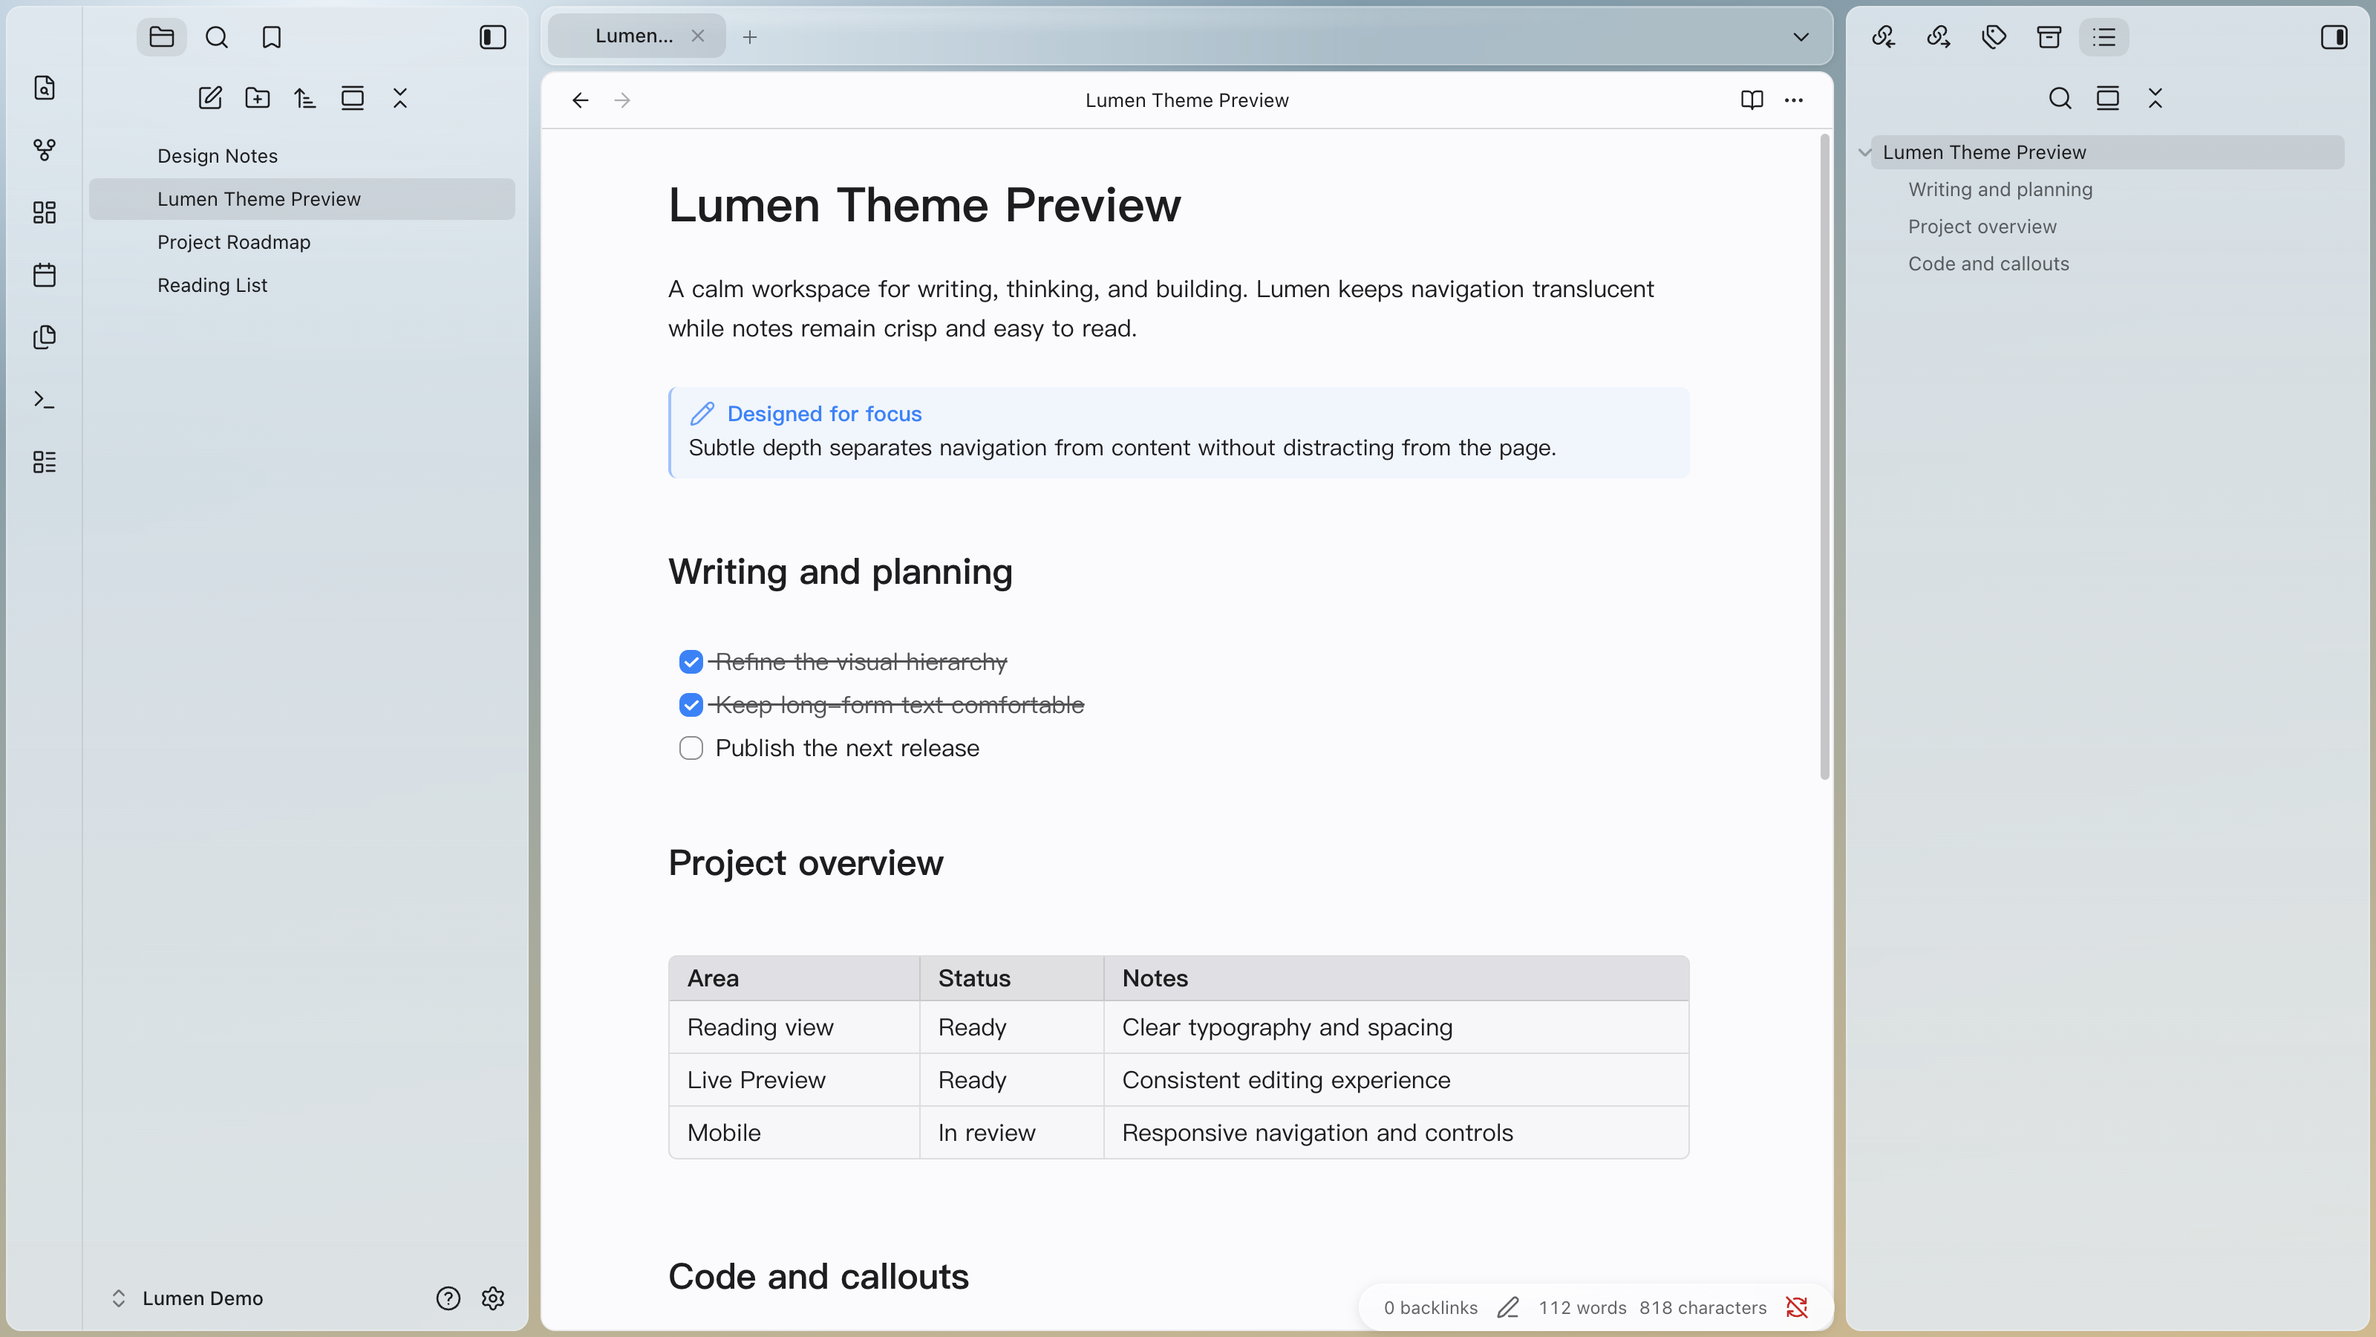
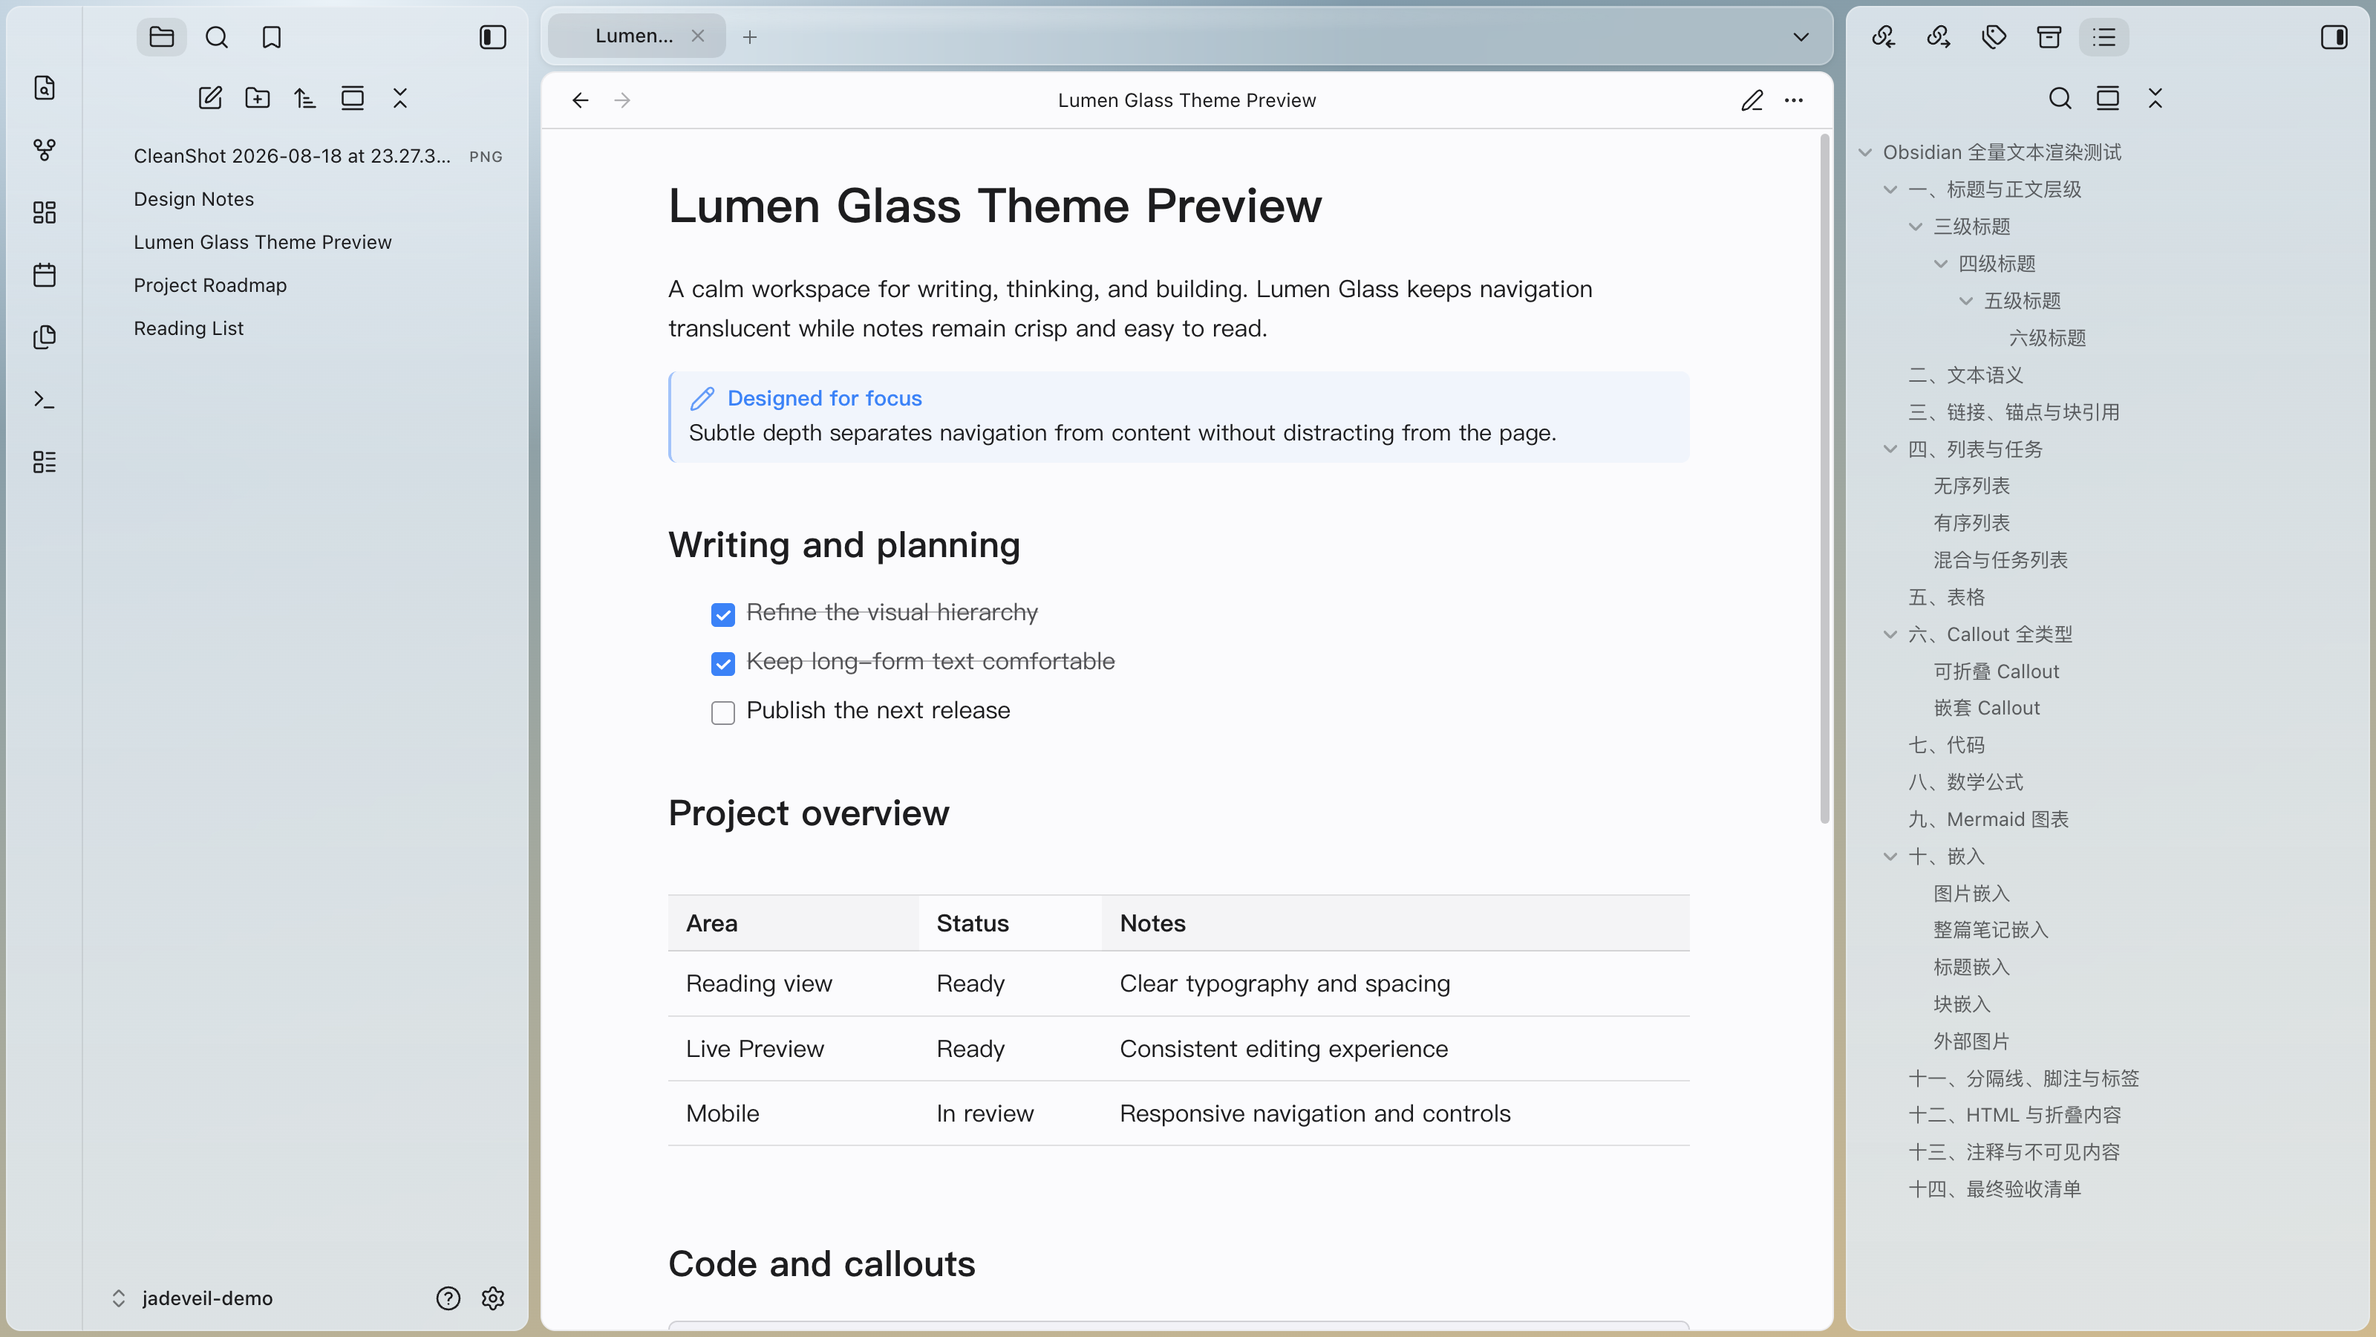
Prepare Lumen Glass for its 1.0.1 release
Align the public identity and release metadata, remove the remote wallpaper path, and strengthen validation so the next immutable release is ready for Community Themes submission.

diff --git a/preview.html b/preview.html
@@ -3,7 +3,7 @@
 <head>
   <meta charset="UTF-8" />
   <meta name="viewport" content="width=device-width, initial-scale=1" />
-  <title>琉光 Lumen · 设计稿</title>
+  <title>Lumen Glass · 设计稿</title>
   <link rel="icon" href="assets/mark.svg" type="image/svg+xml" />
   <style>
     :root {
@@ -317,9 +317,9 @@
 <body>
   <header class="top">
     <div class="brand">
-      <img src="assets/icon.jpg" width="36" height="36" alt="琉光标志" />
+      <img src="assets/icon.jpg" width="36" height="36" alt="Lumen Glass mark" />
       <div>
-        <b>琉光</b>
+        <b>Lumen Glass</b>
         <small>LUMEN</small>
       </div>
     </div>
@@ -347,7 +347,7 @@
       <nav class="side glass">
         <div class="cap">库</div>
         <div class="row"><svg viewBox="0 0 24 24" fill="none" stroke="currentColor" stroke-width="1.75"><path d="M9 8l3 3-3 3"/></svg>日记</div>
-        <div class="row on"><svg viewBox="0 0 24 24" fill="none" stroke="currentColor" stroke-width="1.75"><path d="M9 8l3 3-3 3"/></svg>琉光</div>
+        <div class="row on"><svg viewBox="0 0 24 24" fill="none" stroke="currentColor" stroke-width="1.75"><path d="M9 8l3 3-3 3"/></svg>Lumen Glass</div>
         <div class="row sub">品牌</div>
         <div class="row sub">材质</div>
         <div class="row"><svg viewBox="0 0 24 24" fill="none" stroke="currentColor" stroke-width="1.75"><path d="M9 8l3 3-3 3"/></svg>项目</div>
@@ -355,13 +355,13 @@
       </nav>
       <div class="main">
         <div class="tabs glass">
-          <span class="tab on">琉光</span>
+          <span class="tab on">Lumen Glass</span>
           <span class="tab">日记 <i class="dot" title="未保存"></i></span>
           <span class="tab">阅读清单</span>
           <span class="grow"></span>
         </div>
         <article class="paper">
-          <div class="vhead">琉光.md <span>库 / 琉光</span></div>
+          <div class="vhead">Lumen Glass.md <span>Vault / Lumen Glass</span></div>
           <div class="body">
             <h3>手触琉璃，心落纸上</h3>
             <p>玻璃只负责操作，纸面只负责书写。换墙纸，玻璃会变；换墙纸，<mark>字还在</mark>。</p>
@@ -376,7 +376,7 @@
 --lg-paper: #F4F4F6;</pre>
           </div>
         </article>
-        <div class="status glass">琉光 Lumen · 阅读 · 128 词</div>
+        <div class="status glass">Lumen Glass · 阅读 · 128 词</div>
       </div>
     </div>
   </section>
@@ -394,34 +394,34 @@
       <nav class="side glass">
         <div class="cap">库</div>
         <div class="row"><svg viewBox="0 0 24 24" fill="none" stroke="currentColor" stroke-width="1.75"><path d="M9 8l3 3-3 3"/></svg>日记</div>
-        <div class="row on"><svg viewBox="0 0 24 24" fill="none" stroke="currentColor" stroke-width="1.75"><path d="M9 8l3 3-3 3"/></svg>琉光</div>
+        <div class="row on"><svg viewBox="0 0 24 24" fill="none" stroke="currentColor" stroke-width="1.75"><path d="M9 8l3 3-3 3"/></svg>Lumen Glass</div>
         <div class="row sub">品牌</div>
         <div class="row sub">材质</div>
         <div class="row"><svg viewBox="0 0 24 24" fill="none" stroke="currentColor" stroke-width="1.75"><path d="M9 8l3 3-3 3"/></svg>项目</div>
       </nav>
       <div class="main">
         <div class="tabs glass">
-          <span class="tab on">琉光</span>
+          <span class="tab on">Lumen Glass</span>
           <span class="tab">日记</span>
           <span class="tab">阅读清单</span>
         </div>
         <article class="paper">
-          <div class="vhead">琉光.md <span>库 / 琉光</span></div>
+          <div class="vhead">Lumen Glass.md <span>Vault / Lumen Glass</span></div>
           <div class="body">
             <h3>玻璃浮着，纸留下。</h3>
             <p>The glass floats. The paper stays.</p>
             <p class="muted">紫蓝丝绸只给玻璃染色。纸是墨紫实底，不是第三块玻璃。</p>
           </div>
         </article>
-        <div class="status glass">琉光 Lumen · 128 words</div>
+        <div class="status glass">Lumen Glass · 128 words</div>
       </div>
       <div class="dim" aria-hidden="true"></div>
       <div class="palette glass" role="dialog" aria-label="命令面板">
         <div class="search">
           <svg viewBox="0 0 24 24" fill="none" stroke="currentColor" stroke-width="1.75"><circle cx="11" cy="11" r="6"/><path d="M20 20l-3.2-3.2"/></svg>
-          <b>打开琉光</b>
+          <b>Open Lumen Glass</b>
         </div>
-        <div class="hit on">打开 琉光.md <kbd>↵</kbd></div>
+        <div class="hit on">Open Lumen Glass.md <kbd>↵</kbd></div>
         <div class="hit">新建笔记 <kbd>⌘N</kbd></div>
         <div class="hit">切换外观</div>
       </div>
@@ -438,11 +438,11 @@
       </aside>
       <nav class="side glass" aria-hidden="true">
         <div class="cap">库</div>
-        <div class="row on">琉光</div>
+        <div class="row on">Lumen Glass</div>
         <div class="row">项目</div>
       </nav>
       <div class="main">
-        <div class="tabs glass"><span class="tab on">琉光</span></div>
+        <div class="tabs glass"><span class="tab on">Lumen Glass</span></div>
         <article class="paper"><div class="body"><h3>纸面仍在</h3><p class="muted">设置打开时，笔记被压在后面。</p></div></article>
       </div>
       <div class="dim"></div>
@@ -454,7 +454,7 @@
           <div class="row">快捷键</div>
         </div>
         <div class="set-paper">
-          <h3>琉光 Lumen</h3>
+          <h3>Lumen Glass</h3>
           <div class="field">玻璃重量<span>标准 Regular</span></div>
           <div class="field">降低透明度<i class="toggle"><i></i></i></div>
           <div class="field">增强对比<i class="toggle" style="background:rgba(120,120,128,.32)"><i style="right:auto;left:3px"></i></i></div>
@@ -470,11 +470,11 @@
     <div class="phone-wrap">
       <div class="phone frame" data-screen="mobile" style="display:flex;grid-template-columns:none;height:720px">
         <div class="tabs glass">
-          <span class="tab on">琉光</span>
+          <span class="tab on">Lumen Glass</span>
           <span class="tab">日记</span>
         </div>
         <article class="paper">
-          <div class="vhead">琉光.md</div>
+          <div class="vhead">Lumen Glass.md</div>
           <div class="body">
             <h3>手触琉璃</h3>
             <p>小屏默认更实的填充。可读优先于通透。</p>
@@ -503,6 +503,6 @@
     </div>
   </section>
 
-  <footer>琉光 Lumen · 设计稿 v2 · 过关后再写 theme.css</footer>
+  <footer>Lumen Glass · 设计稿 v2 · 过关后再写 theme.css</footer>
 </body>
 </html>

diff --git a/theme.css b/theme.css
@@ -1,15 +1,15 @@
 /* ============================================================================
-   Lumen — Obsidian theme
+   Lumen Glass — Obsidian theme
    ============================================================================ */
 
 /* @settings
 
-name: Lumen
+name: Lumen Glass
 id: lumen
 settings:
     -
         id: lumen-about
-        title: Lumen
+        title: Lumen Glass
         description: A translucent interface with a clear, focused reading surface.
         type: heading
         level: 1
@@ -19,16 +19,9 @@ settings:
         type: heading
         level: 2
     -
-        id: lumen-wallpaper-image
-        title: Custom wallpaper
-        description: Enter url("…") or none. The wallpaper is not applied to note backgrounds.
-        type: variable-text
-        default: none
-        quotes: false
-    -
         id: lumen-ambient-bleed
         title: Ambient color bleed
-        description: Applies wallpaper colors to translucent surfaces without affecting notes.
+        description: Applies the built-in backdrop colors to translucent surfaces without affecting notes.
         type: variable-number-slider
         default: 36
         min: 0
@@ -125,7 +118,6 @@ settings:
   --lumen-accent: #0a84ff;
   --lumen-ambient-bleed: 30%;
   --lumen-file-line-width: 46rem;
-  --lumen-wallpaper-image: none;
 
   --lg-accent: var(--lumen-accent);
   --lg-accent-hover: color-mix(in srgb, var(--lg-accent) 78%, #000);
@@ -557,7 +549,7 @@ body *::-webkit-scrollbar-thumb:hover {
 
 .app-container {
   background-color: var(--lg-wallpaper-fallback);
-  background-image: var(--lumen-wallpaper-image), var(--lg-wallpaper);
+  background-image: var(--lg-wallpaper);
   background-size: cover;
   background-position: center;
 }
@@ -1228,7 +1220,7 @@ body.is-mobile .status-bar {
 
 .markdown-rendered mark,
 .cm-highlight {
-  background: var(--text-highlight-bg) !important;
+  background: var(--text-highlight-bg);
   color: var(--text-normal);
   padding-inline: 0.08em;
   border-radius: var(--lg-radius-xs);
@@ -1519,7 +1511,7 @@ body[class] .workspace-leaf-content .markdown-rendered pre > code {
 }
 
 .markdown-rendered mjx-container[display="true"] {
-  margin-block: var(--lg-space-6) !important;
+  margin-block: var(--lg-space-6);
   padding-block: var(--lg-space-1);
   overflow-x: auto;
   overflow-y: hidden;

diff --git a/README.md b/README.md
@@ -1,8 +1,8 @@
-# Lumen
+# Lumen Glass
 
 A light and dark theme for [Obsidian](https://obsidian.md/) with translucent navigation, restrained interface styling, and a clear reading surface.
 
-![Lumen theme preview](assets/screenshot.png)
+![Lumen Glass theme preview](assets/screenshot.png)
 
 ## Features
 
@@ -19,14 +19,17 @@ A light and dark theme for [Obsidian](https://obsidian.md/) with translucent nav
 - Obsidian 1.13.0 or later
 - macOS, Windows, Linux, or Obsidian Mobile
 
+> [!IMPORTANT]
+> The historical 1.0.0 release predates the Lumen Glass rename and contains the former bilingual manifest name. Do not use it for Lumen Glass; the next supported release is 1.0.1.
+
 ## Installation
 
 ### GitHub release
 
 1. Download `manifest.json` and `theme.css` from the [latest release](https://github.com/paddychenc75/obsidian-lumen/releases/latest).
-2. Create a folder named `Lumen` inside your vault's `.obsidian/themes/` directory.
+2. Create a folder named `Lumen Glass` inside your vault's `.obsidian/themes/` directory.
 3. Copy both files into the new folder.
-4. Open **Settings → Appearance → Themes** and select **Lumen**.
+4. Open **Settings → Appearance → Themes** and select **Lumen Glass**.
 
 ### Git
 
@@ -34,7 +37,7 @@ Clone the repository directly into your vault's themes directory:
 
 ```bash
 git clone https://github.com/paddychenc75/obsidian-lumen.git \
-  "/path/to/vault/.obsidian/themes/Lumen"
+  "/path/to/vault/.obsidian/themes/Lumen Glass"
 ```
 
 Reload Obsidian or switch themes after editing `theme.css`.
@@ -43,7 +46,7 @@ Reload Obsidian or switch themes after editing `theme.css`.
 
 Install [Style Settings](https://github.com/mgmeyers/obsidian-style-settings) to configure:
 
-- Custom wallpaper and ambient color bleed
+- Built-in ambient color bleed
 - Thin, regular, or thick glass
 - Inset or flush interface layout
 - Specular highlights
@@ -51,7 +54,7 @@ Install [Style Settings](https://github.com/mgmeyers/obsidian-style-settings) to
 - Transparency and contrast preferences
 - Accent color
 
-Lumen also follows the matching accessibility preferences provided by your operating system.
+Lumen Glass also follows the matching accessibility preferences provided by your operating system.
 
 ## Development
 
@@ -61,7 +64,7 @@ The validation script requires Node.js 24 or later and has no third-party depend
 npm run check
 ```
 
-Version tags must match the version in `manifest.json`. Pushing a version tag runs the release workflow and uploads the files required by Obsidian.
+Version tags must match the version in `manifest.json`. Pushing a version tag runs the release workflow and uploads the files required by Obsidian. The 1.0.1 tag must be created from this renamed source state; the existing 1.0.0 tag and release remain immutable historical artifacts.
 
 ## Contributing
 
@@ -69,4 +72,4 @@ Bug reports and pull requests are welcome. Please run `npm run check` before sub
 
 ## License
 
-Lumen is available under the [MIT License](LICENSE).
+Lumen Glass is available under the [MIT License](LICENSE).

diff --git a/CHANGELOG.md b/CHANGELOG.md
@@ -1,8 +1,17 @@
 # Changelog
 
-All notable changes to Lumen are documented in this file.
+All notable changes to Lumen Glass are documented in this file.
 
 The project follows [Semantic Versioning](https://semver.org/).
+
+## [1.0.1] - Unreleased
+
+### Changed
+
+- Renamed the public theme from Lumen to Lumen Glass for a unique Community Themes listing.
+- Updated the manifest, Style Settings metadata, documentation, and release metadata.
+- Removed the custom wallpaper URL setting so the theme cannot initiate remote asset requests.
+- Superseded the pre-directory 1.0.0 package, whose release assets retain the former bilingual manifest name.
 
 ## [1.0.0] - 2026-08-20
 
@@ -14,4 +23,5 @@ The project follows [Semantic Versioning](https://semver.org/).
 - Style Settings controls for wallpaper, glass weight, contrast, transparency, and accent color.
 - Automated repository validation and tag-based GitHub releases.
 
+[1.0.1]: https://github.com/paddychenc75/obsidian-lumen/releases/tag/1.0.1
 [1.0.0]: https://github.com/paddychenc75/obsidian-lumen/releases/tag/1.0.0

diff --git a/BRAND.md b/BRAND.md
@@ -1,4 +1,4 @@
-# 琉光 Lumen
+# Lumen Glass
 
 **手触琉璃，心落纸上。**
 **Glass for the hands. Paper for the mind.**
@@ -14,12 +14,12 @@
 | | |
 |---|---|
 | 中文名 | **琉光** |
-| 英文名 | **Lumen** |
-| 产品全称 | 琉光 Lumen |
-| 包名 | `obsidian-lumen` |
-| 读音 | 琉光 liú-guāng · Lumen /ˈluː.mən/ |
+| 英文名 | **Lumen Glass** |
+| 产品全称 | Lumen Glass |
+| 包名 | `obsidian-lumen-glass` |
+| 读音 | Lumen /ˈluː.mən/ · Glass /ɡlæs/ |
 
-**琉** 取自琉璃，玻璃的古名。**光** 是穿过玻璃后仍在的东西。Lumen 是光通量的单位——光被量过，而不是被装饰过。
+**琉** 取自琉璃，玻璃的古名。**光** 是穿过玻璃后仍在的东西。Lumen 是光通量的单位，Glass 点明主题的核心界面材质。
 
 不用 Apple 的产品名「Liquid Glass」当主题名。那是材质，不是品牌。
 

diff --git a/TEAM.md b/TEAM.md
@@ -10,7 +10,7 @@
 ## 红线（仍有效）
 
 1. 不把编辑器做成玻璃。
-2. 品牌是 **琉光 Lumen**，不用 Apple 产品名。
+2. 品牌是 **Lumen Glass**，不用 Apple 产品名。
 3. 选中是内嵌体积，不是描边。
 4. 不提供「给正文加玻璃」的开关。
 
@@ -21,7 +21,7 @@
 | 四屏定稿 | 设计 | 完成 |
 | 过审开工 | 产品 + 三位设计 | 完成 |
 | theme.css 骨架 + 过审条件 | 研发 | 进行中 |
-| 装进 `jadeveil-demo` | 研发 | 已装，外观已切到琉光 Lumen |
+| 装进 `jadeveil-demo` | 研发 | 已装，外观已切到 Lumen Glass |
 | 实机对照四屏签字 | 研发 + UI | 进行中：已按 1.13 重挂浮岛铬，待你刷新主题再看 |
 | 社区商店发布 | — | 未开始 |
 

diff --git a/DESIGN.md b/DESIGN.md
@@ -1,4 +1,4 @@
-# 琉光 Lumen · 设计定稿
+# Lumen Glass · 设计定稿
 
 源文件：[`preview.html`](preview.html)
 
